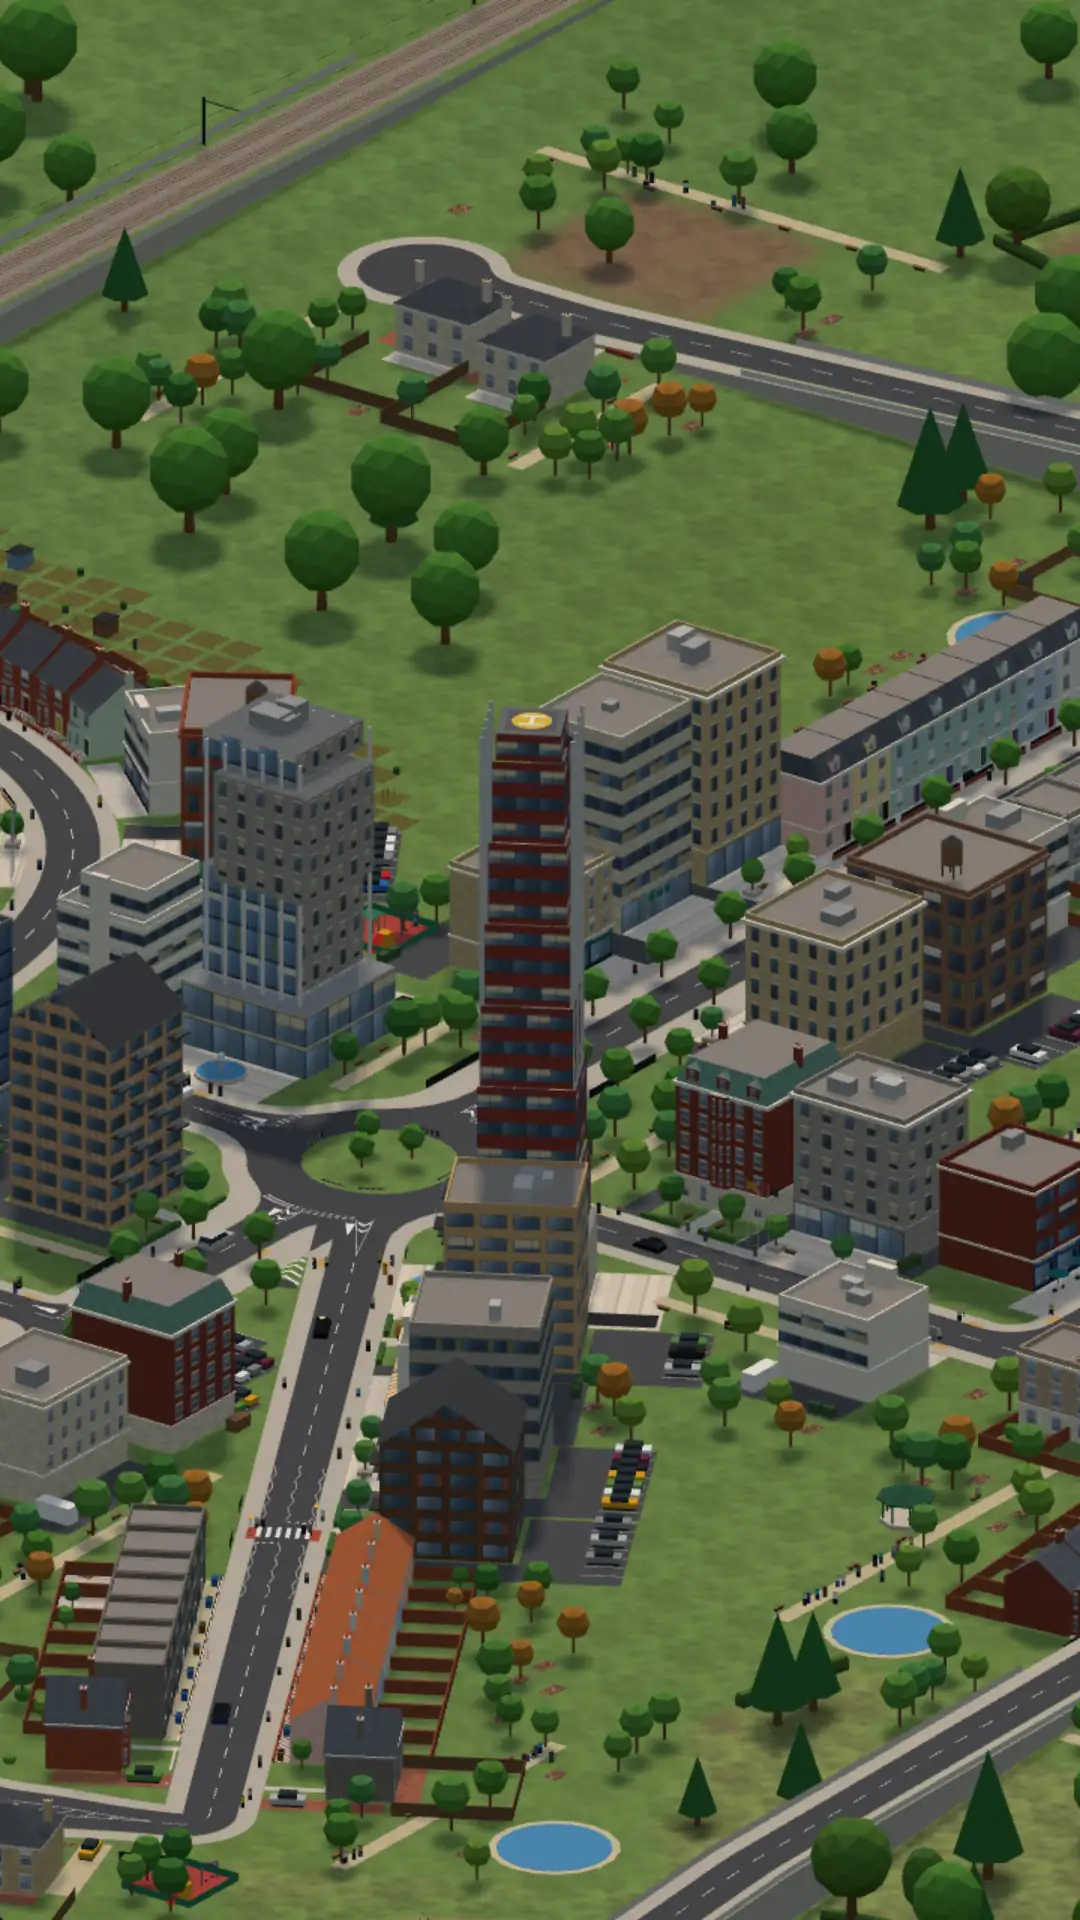
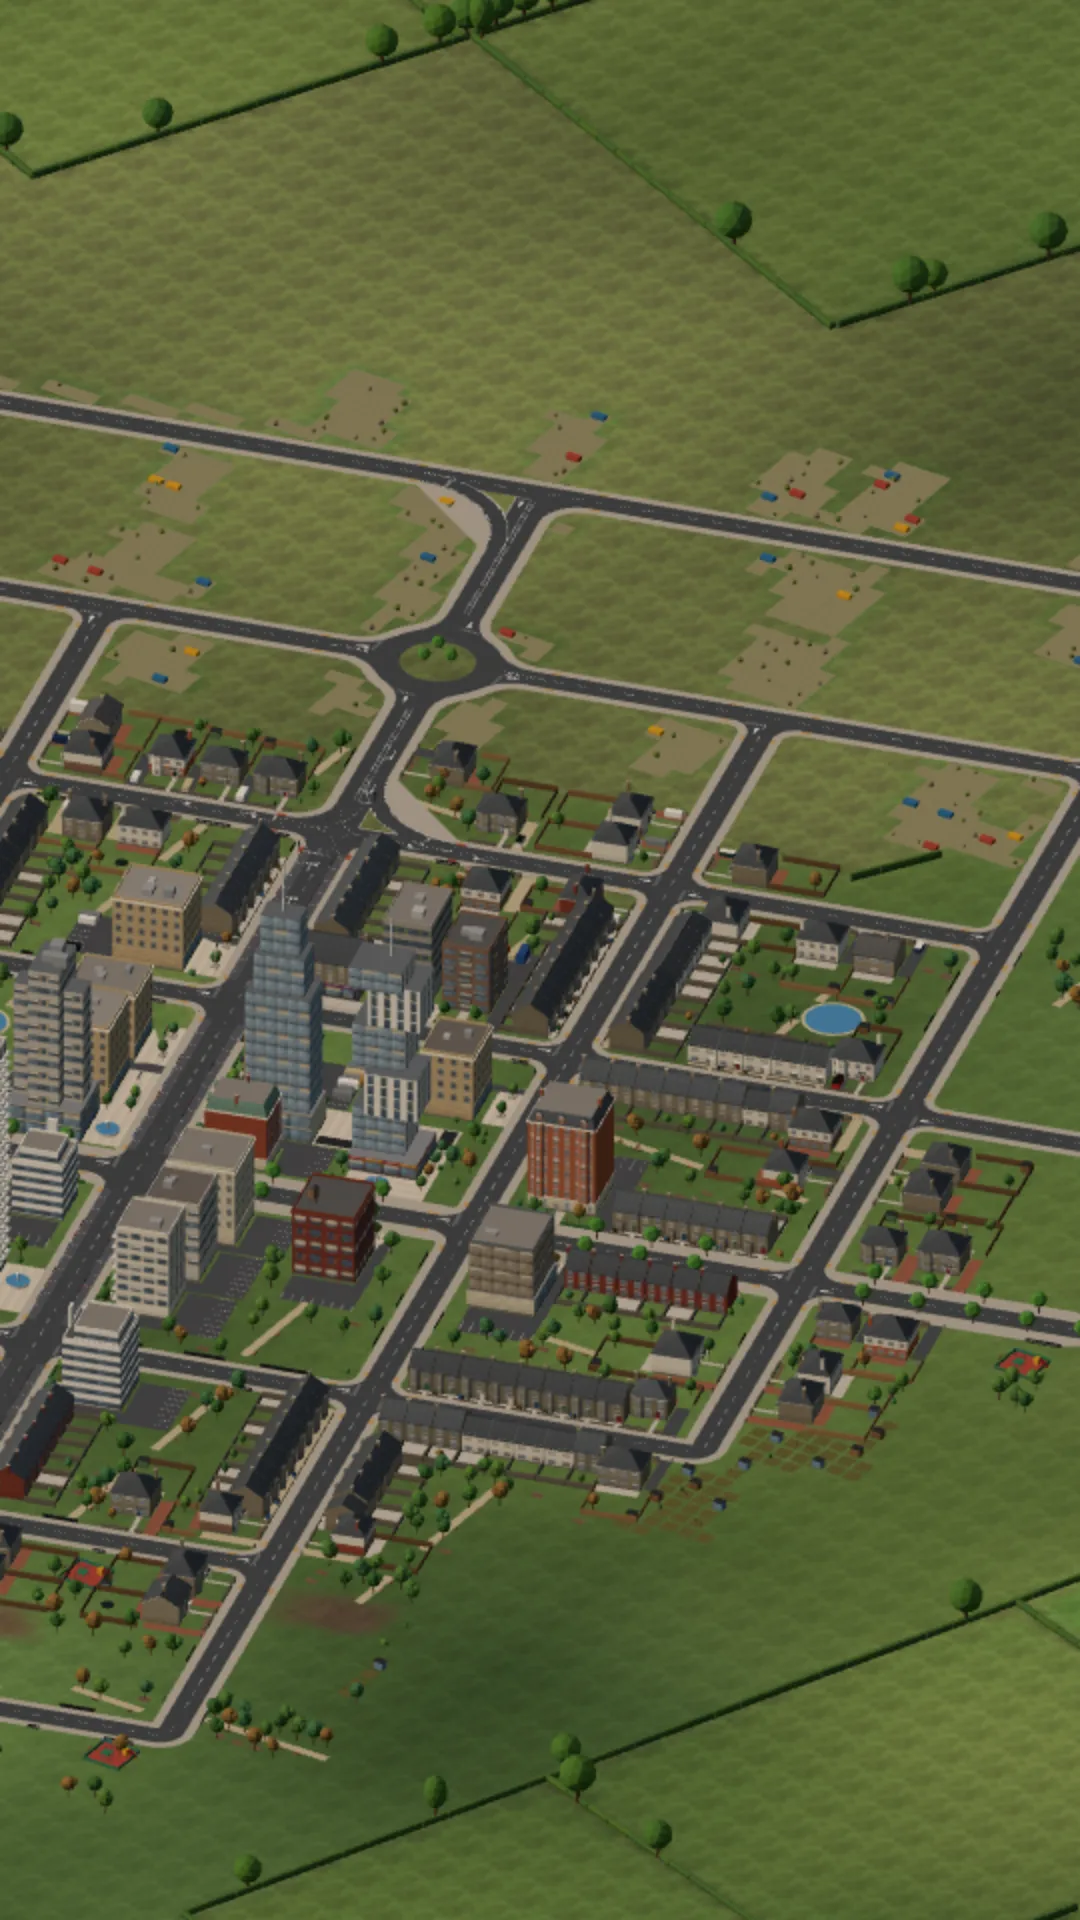
Start menu: the pictures behind it are the region's start town
The home screen, the loading screen and the Continue card still showed the old starter town.
The three pictures in src/app/art are retaken from the region (seed 42) at phone size with
e2e/art.mjs, a small script kept in the repo this time, so they can be retaken when the look
changes. The handover says where things stand after step 4.

Claude-Session: https://claude.ai/code/session_01N2xhRAKzQWsSt6RZQH8jdG

diff --git a/src/app/menu.ts b/src/app/menu.ts
@@ -2,7 +2,7 @@
 // for each. Plain DOM with no three.js, so it paints at once; the game loads only when a map is
 // picked (main.ts). Brand: docs/hud.md (forest, lime, gold; League Spartan and Archivo; Tabler icons).
 // Like the start screens of the city builders it borrows from, home is the town itself: a picture of
-// the starter town (art/, taken from the game) drifting slowly behind a short stack of choices,
+// the region's start town (art/, taken from the game with e2e/art.mjs) drifting slowly behind a short stack of choices,
 // with the one that matters most (Continue, or New game) the biggest.
 
 import { GONE, MAPS, type MapInfo } from '../proto/maps';

diff --git a/docs/HANDOVER.md b/docs/HANDOVER.md
@@ -1,5 +1,22 @@
 # Handover: where everything stands
 
+## Latest: one map, step 4: the 6 km code is gone (26 Sep 2026, evening)
+
+Branch `claude/work-onemap-4` (brief: `docs/briefs/onemap-4.md`). After #59 made the game one 50 km map,
+this deletes what only the old maps reached:
+- `interchange/region.ts`, `rail/region.ts` and `region/town.ts` and their tests. `region/generate.ts`
+  keeps what the 50 km plan uses (`KINDS`, `layStreets`, `suggestLinks`, `reach`); the 6 km map made
+  whole is now only a test fixture (`region/sixkm.fixture.ts`) for countryside's `fields.test.ts`.
+- `region/options.ts` has one size, 50 km, and the setup no longer branches on a 6 km map. Leaflet is
+  out of `package.json`.
+- Tests follow: `region.test.ts` runs the street layout, links and names on the 50 km plan; the
+  portal-traffic test lays its motorway and roads on a 50 km map's rim (`findPortals`; on the real map
+  the ways off are `worldPortals`, with no traffic on the Network yet).
+- Docs no longer describe the starter town, the sandbox, the 6 km region or Real Town Plans
+  (`docs/places.md` is gone; `docs/region.md` and `docs/regiongen.md` say what the region is now).
+- The start menu's pictures (`src/app/art/`) are the region's start town, taken with `e2e/art.mjs`
+  (retake them when the look changes: `node e2e/art.mjs`, with the dev server up).
+
 ## Latest: HUD, start menu and region work (25 Sep 2026)
 
 **Morning, 26 Sep (06:30 UTC):** everything in `docs/briefs/PLAN.md` merged overnight is live:
@@ -77,8 +94,8 @@ Coordinator: https://claude.ai/code/session_01KCA5Gq42qr3TFSD5KvUoT8. Integratio
   same in the coverage overlay. Stations stay at 800 m. The loop e2e's profit is unchanged.
 - **Roundabout entries** have painted chevrons, not green splitter islands (`jshape.ts`).
 - **Start menu (`src/app`):**
-  - Home is a picture of the starter town, drifting slowly (`src/app/art/`, taken from the game
-    with `e2e/.scratch/art.mjs`, a local script; retake the pictures when the look changes).
+  - Home is a picture of the map's start town, drifting slowly (`src/app/art/`, taken from the game
+    with `e2e/art.mjs`; retake the pictures when the look changes).
   - Over it: a Continue card for the last town with its map's picture, New game as the big
     button, and a row of tiles (How to play, Library, Settings, About).
   - New game has a card per map with its picture. Loading shows the map's picture and a tip.
